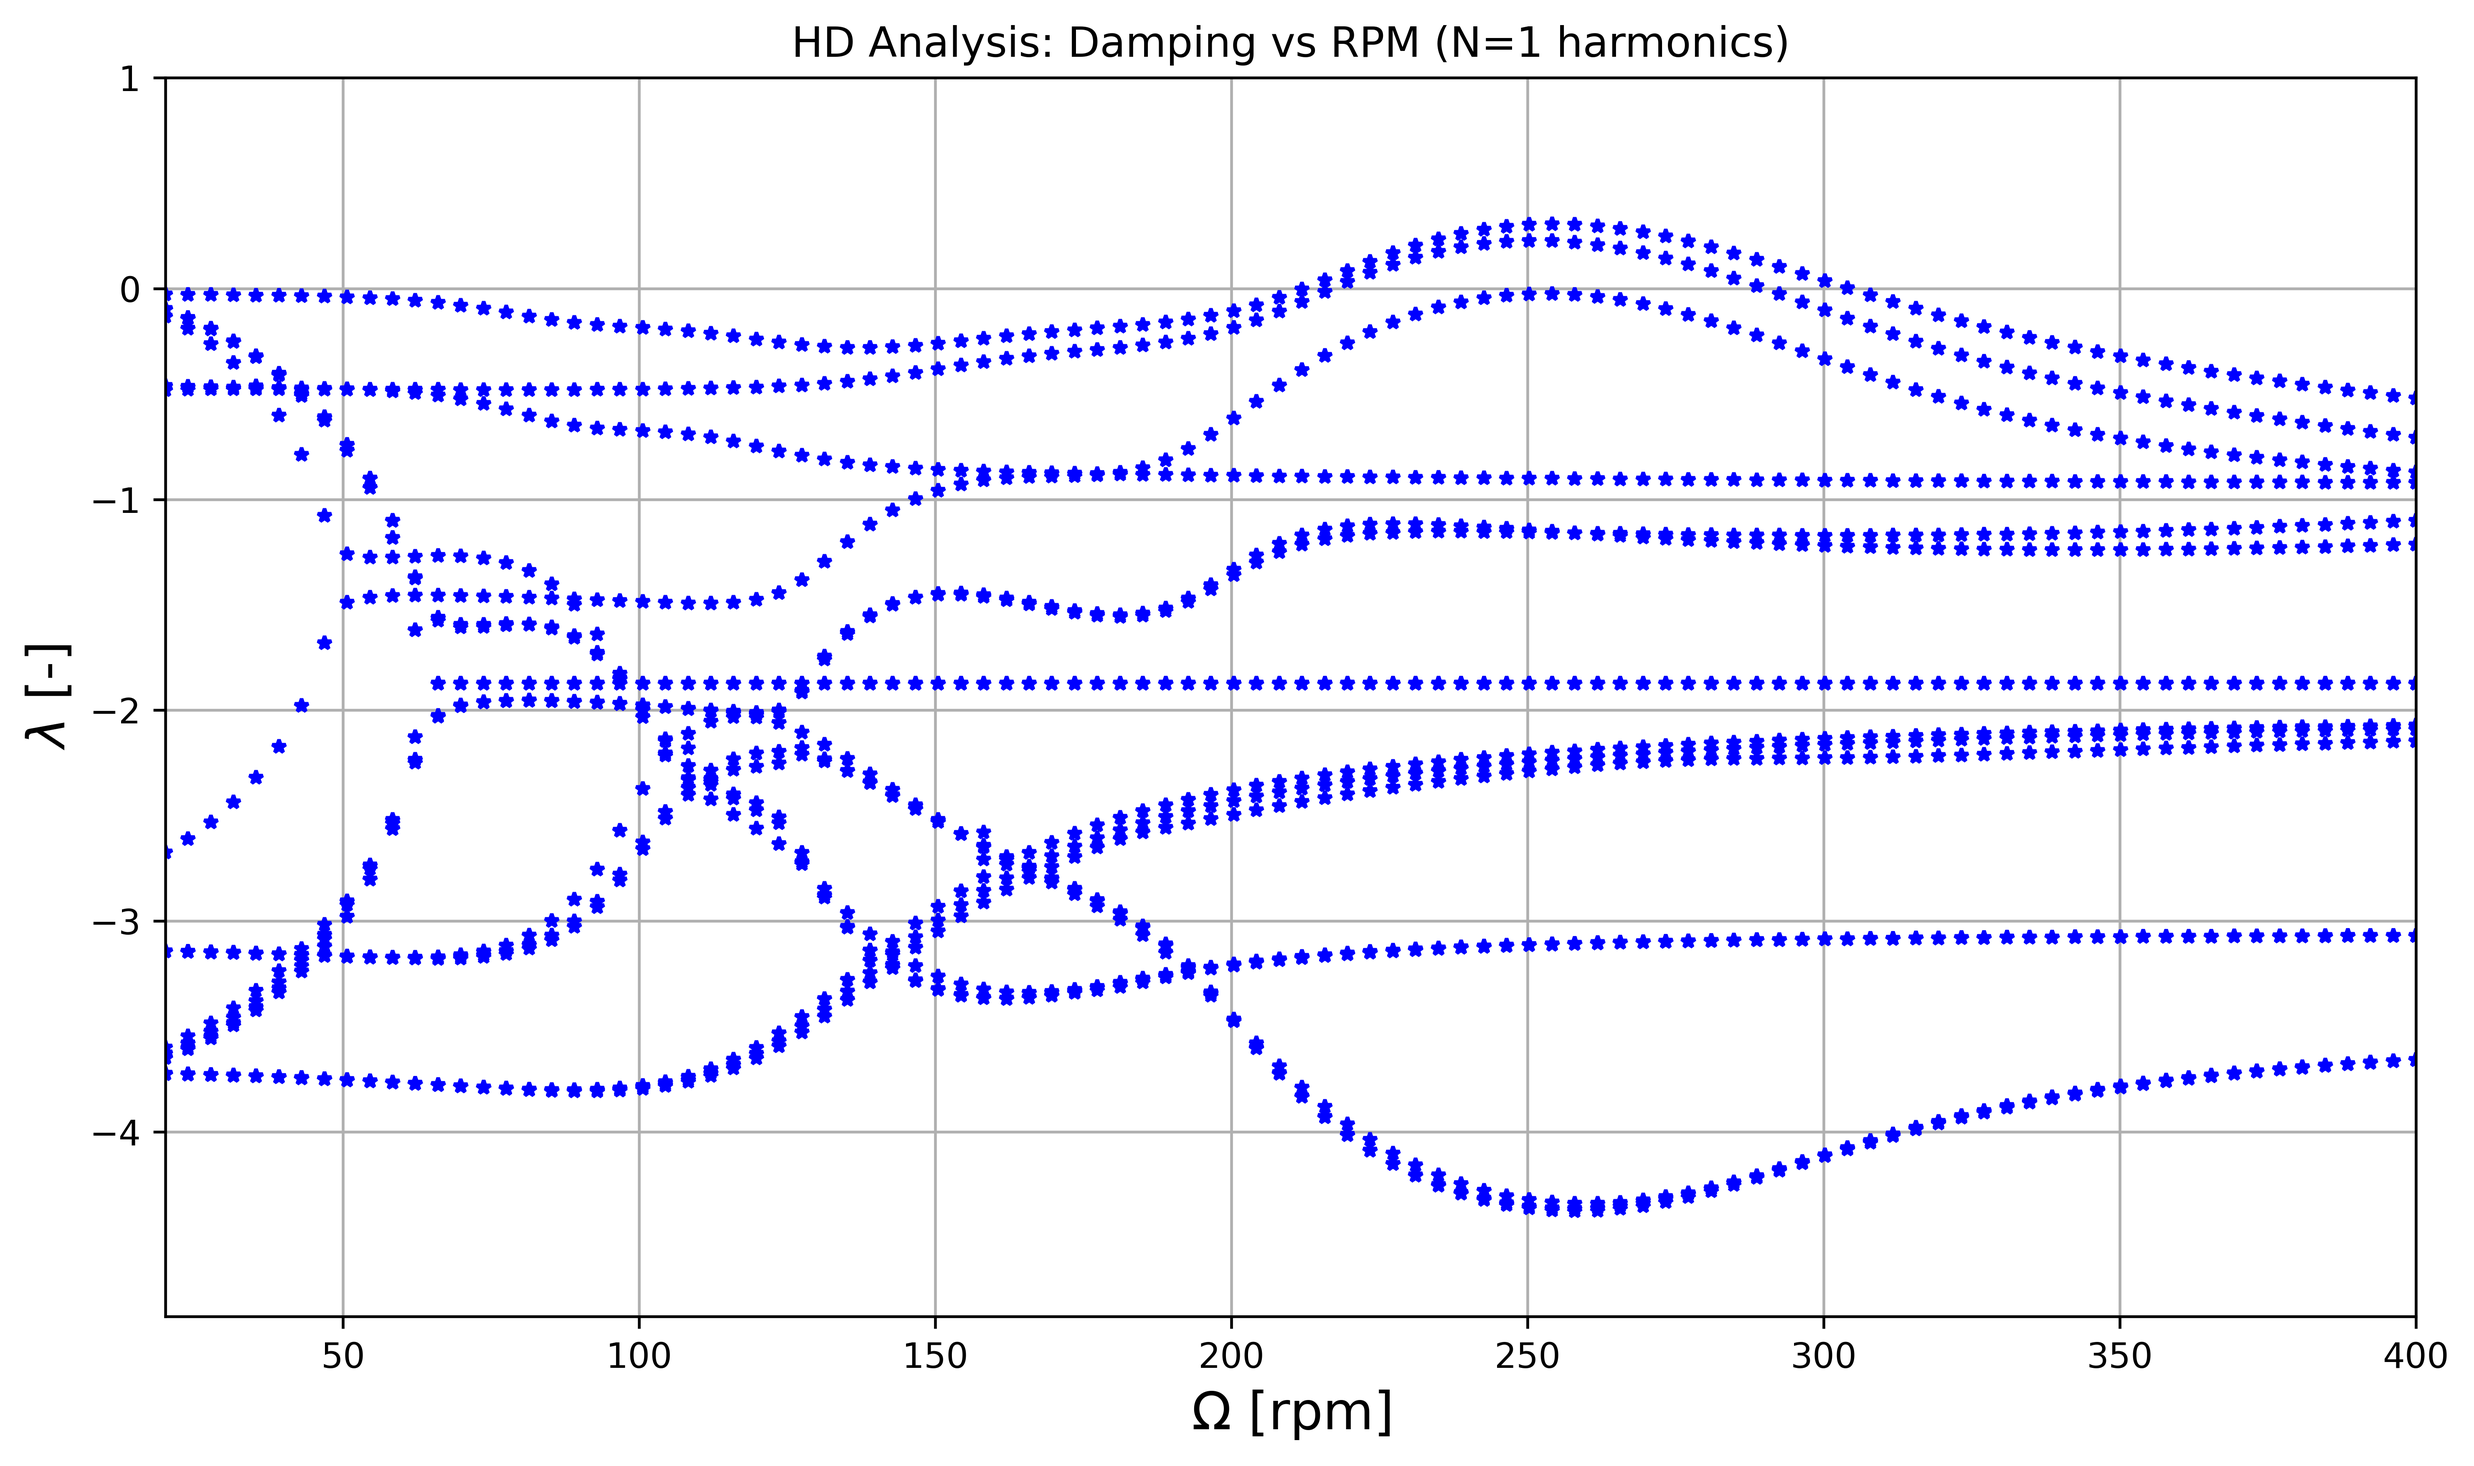
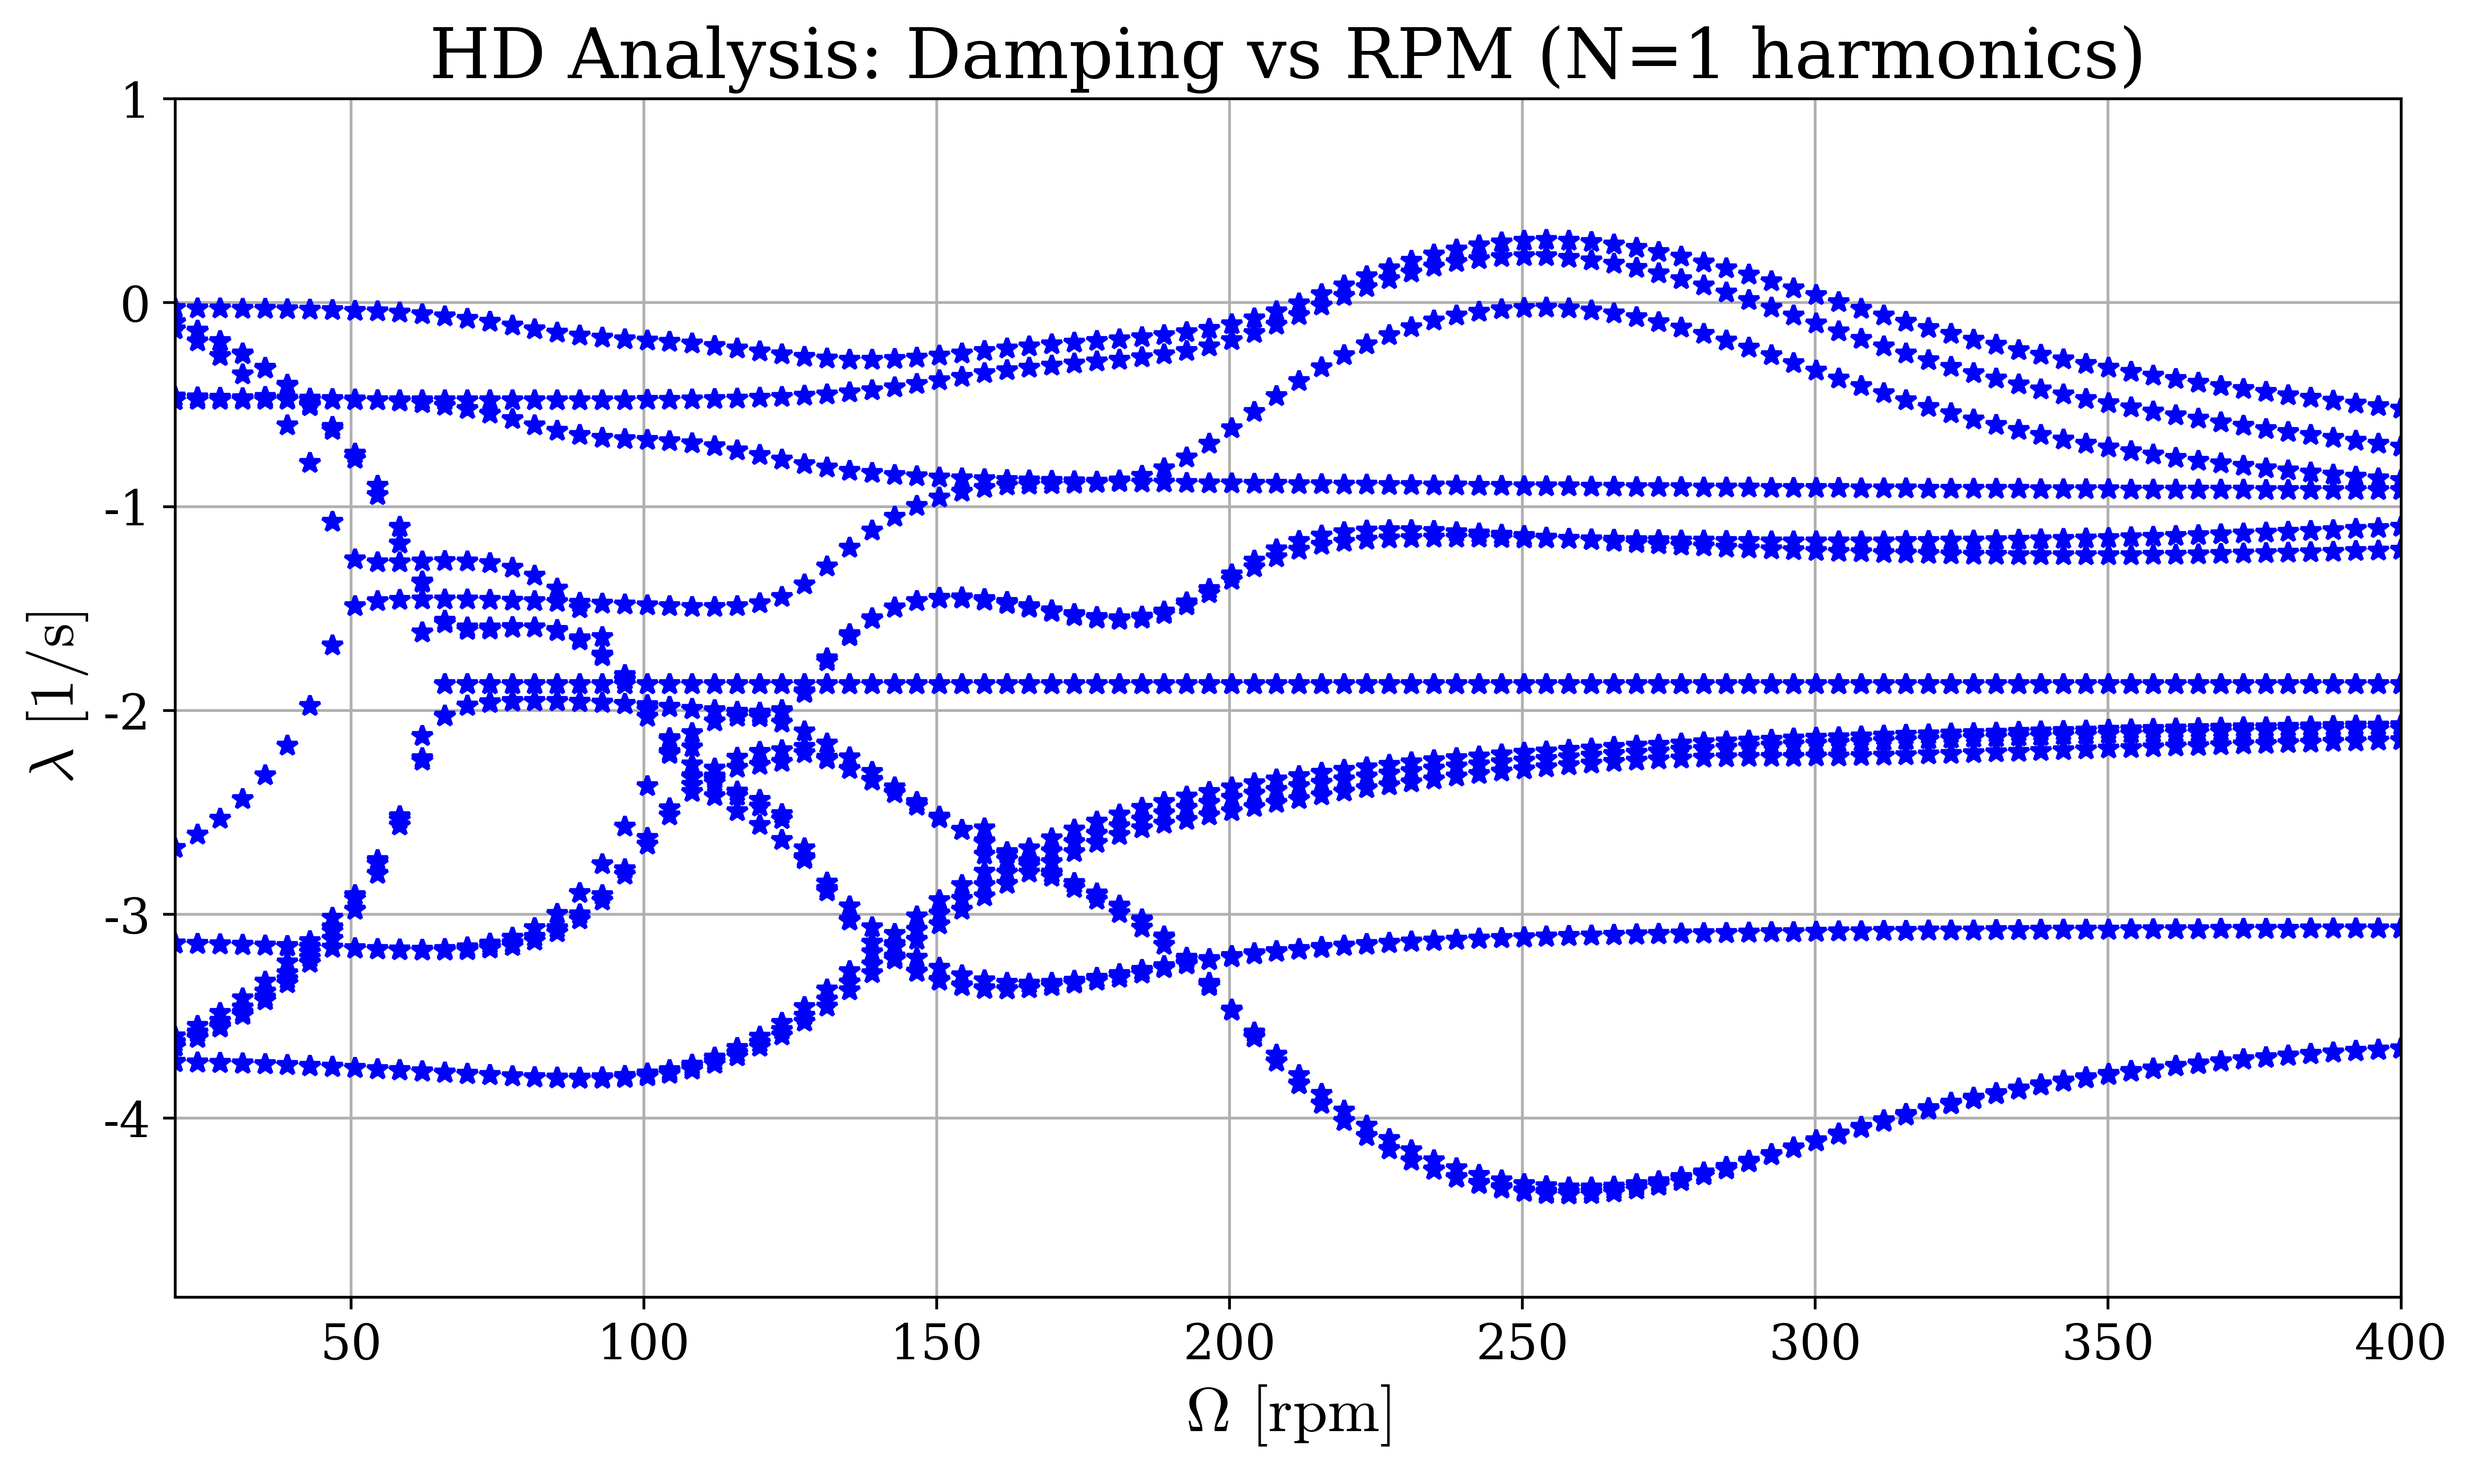
updated plots

diff --git a/src/utils/plotting.py b/src/utils/plotting.py
@@ -8,16 +8,33 @@ import matplotlib.pyplot as plt
 from dataclasses import dataclass
 from typing import Optional, List, Tuple
 
+# Configure matplotlib to use LaTeX-style fonts (Computer Modern)
+# and publication-quality settings
+plt.rcParams.update({
+    'text.usetex': False,  # Set True if LaTeX is installed for full LaTeX rendering
+    'font.family': 'serif',
+    'font.serif': ['Computer Modern Roman', 'CMU Serif', 'DejaVu Serif'],
+    'mathtext.fontset': 'cm',  # Computer Modern for math text
+    'axes.unicode_minus': False,
+    'axes.labelsize': 18,
+    'axes.titlesize': 20,
+    'xtick.labelsize': 14,
+    'ytick.labelsize': 14,
+    'legend.fontsize': 14,
+    'figure.titlesize': 20,
+})
+
 
 @dataclass
 class PlotProperties:
-    """Plot styling properties."""
-    
-    marker_size: int = 4
+    """Plot styling properties for publication-quality figures."""
+
+    marker_size: int = 6
     line_width: float = 2.0
-    fontsize_legend: int = 11
-    dash_width: float = 1.5
-    fontsize_label: int = 15
+    fontsize_legend: int = 14
+    dash_width: float = 2.0
+    fontsize_label: int = 18
+    fontsize_tick: int = 14
 
 
 @dataclass
@@ -125,8 +142,8 @@ class MyPlot:
                    color='blue', marker='*', markersize=plot_property.marker_size,
                    linestyle='None')
 
-        ax.set_xlabel(r'$\Omega$ [rpm]', fontsize=plot_property.fontsize_label)
-        ax.set_ylabel(r'$\lambda$ [-]', fontsize=plot_property.fontsize_label)
+        ax.set_xlabel(r'$\Omega$ $\mathrm{[rpm]}$', fontsize=plot_property.fontsize_label)
+        ax.set_ylabel(r'$\lambda$ $\mathrm{[1/s]}$', fontsize=plot_property.fontsize_label)
 
         if xlimits:
             ax.set_xlim(xlimits)
@@ -209,8 +226,8 @@ class MyPlot:
                            markersize=plot_property.marker_size,
                            linewidth=plot_property.line_width)
 
-        ax.set_xlabel(r'$\Omega$ [rpm]', fontsize=plot_property.fontsize_label)
-        ax.set_ylabel(r'$\lambda$ [-]', fontsize=plot_property.fontsize_label)
+        ax.set_xlabel(r'$\Omega$ $\mathrm{[rpm]}$', fontsize=plot_property.fontsize_label)
+        ax.set_ylabel(r'$\lambda$ $\mathrm{[1/s]}$', fontsize=plot_property.fontsize_label)
 
         if modes is not None:
             ax.legend(fontsize=plot_property.fontsize_legend, loc='center left',
@@ -258,8 +275,8 @@ class MyPlot:
                    color='blue', marker='*', markersize=plot_property.marker_size,
                    linestyle='None')
 
-        ax.set_xlabel(r'$\Omega$ [rpm]', fontsize=plot_property.fontsize_label)
-        ax.set_ylabel(r'$\omega$ [rad/s]', fontsize=plot_property.fontsize_label)
+        ax.set_xlabel(r'$\Omega$ $\mathrm{[rpm]}$', fontsize=plot_property.fontsize_label)
+        ax.set_ylabel(r'$\omega$ $\mathrm{[rad/s]}$', fontsize=plot_property.fontsize_label)
 
         if xlimits:
             ax.set_xlim(xlimits)
@@ -342,8 +359,8 @@ class MyPlot:
                            markersize=plot_property.marker_size,
                            linewidth=plot_property.line_width)
 
-        ax.set_xlabel(r'$\Omega$ [rpm]', fontsize=plot_property.fontsize_label)
-        ax.set_ylabel(r'$\omega$ [rad/s]', fontsize=plot_property.fontsize_label)
+        ax.set_xlabel(r'$\Omega$ $\mathrm{[rpm]}$', fontsize=plot_property.fontsize_label)
+        ax.set_ylabel(r'$\omega$ $\mathrm{[rad/s]}$', fontsize=plot_property.fontsize_label)
 
         if modes is not None:
             ax.legend(fontsize=plot_property.fontsize_legend, loc='center left',
@@ -383,8 +400,8 @@ class MyPlot:
         # TODO: Implement plotting logic from MATLAB version
         # This is a placeholder
 
-        ax.set_xlabel('Rotor Speed (RPM)', fontsize=15)
-        ax.set_ylabel('Modal Participation', fontsize=15)
+        ax.set_xlabel(r'$\Omega$ $\mathrm{[rpm]}$', fontsize=plot_property.fontsize_label)
+        ax.set_ylabel(r'Modal Participation $\mathrm{[-]}$', fontsize=plot_property.fontsize_label)
         ax.grid(True)
 
         if xlimits:
@@ -464,14 +481,14 @@ class MyPlot:
         # Filled contour plot
         cf = ax.contourf(OMEGA_grid, PARAM_grid, damping, levels=levels, cmap=cmap)
         cbar = fig.colorbar(cf, ax=ax)
-        cbar.set_label(r'Damping $\lambda$ $\mathrm{[1/s]}$', fontsize=plot_property.fontsize_label)
+        cbar.set_label(r'$\lambda$ $\mathrm{[1/s]}$ of least damped mode', fontsize=plot_property.fontsize_label)
 
         # Stability boundary (damping = 0) for main analysis
         if show_stability_boundary:
             cs = ax.contour(OMEGA_grid, PARAM_grid, damping, levels=[0],
                            colors='black', linewidths=2, linestyles='--')
             # Add to legend manually
-            boundary_label = f"{parametric_analysis.solver_type} boundary"
+            boundary_label = f"{parametric_analysis.solver_type} stability boundary"
             ax.plot([], [], 'k--', linewidth=2, label=boundary_label)
 
         # Overlay reference analysis stability boundary if provided
@@ -494,7 +511,7 @@ class MyPlot:
 
         # Labels
         if xlabel is None:
-            xlabel = r'$\Omega$ $\mathrm{[RPM]}$'
+            xlabel = r'$\Omega$ $\mathrm{[rpm]}$'
         ax.set_xlabel(xlabel, fontsize=plot_property.fontsize_label)
 
         if ylabel is None:
@@ -563,7 +580,7 @@ class MyPlot:
 
         # Labels
         if xlabel is None:
-            xlabel = r'$\Omega$ $\mathrm{[RPM]}$'
+            xlabel = r'$\Omega$ $\mathrm{[rpm]}$'
         ax.set_xlabel(xlabel, fontsize=plot_property.fontsize_label)
 
         if ylabel is None:
@@ -631,7 +648,7 @@ class MyPlot:
         ax.axhline(y=0, color='k', linestyle='--', linewidth=plot_property.dash_width,
                   label='Stability boundary')
 
-        ax.set_xlabel(r'$\Omega$ $\mathrm{[RPM]}$', fontsize=plot_property.fontsize_label)
+        ax.set_xlabel(r'$\Omega$ $\mathrm{[rpm]}$', fontsize=plot_property.fontsize_label)
         ax.set_ylabel(r'Damping $\lambda$ $\mathrm{[1/s]}$', fontsize=plot_property.fontsize_label)
 
         if title is None:
@@ -689,7 +706,7 @@ class MyPlot:
             ax.contourf(OMEGA_grid, PARAM_grid, damping, levels=[damping.min(), 0],
                        colors=['green'], alpha=0.3)
 
-        ax.set_xlabel(r'$\Omega$ $\mathrm{[RPM]}$', fontsize=plot_property.fontsize_label)
+        ax.set_xlabel(r'$\Omega$ $\mathrm{[rpm]}$', fontsize=plot_property.fontsize_label)
         ax.set_ylabel(MyPlot._format_parameter_label(parametric_analysis.parameter_name),
                      fontsize=plot_property.fontsize_label)
 
@@ -712,7 +729,7 @@ class MyPlot:
             Formatted label with units if known
         """
         label_map = {
-            "nominal_damping_Cd": r"Damper Coefficient $C_d$ $\mathrm{[Nms/rad]}$",
+            "nominal_damping_Cd": r"Nominal Damping $C_d$ $\mathrm{[Nms/rad]}$",
             "nominal_stiffness_Kd": r"Damper Stiffness $K_d$ $\mathrm{[Nm/rad]}$",
             "hub_damping_Cx": r"Hub Damping $C_x$ $\mathrm{[Ns/m]}$",
             "hub_damping_Cy": r"Hub Damping $C_y$ $\mathrm{[Ns/m]}$",

diff --git a/main_parametric_analysis_test.py b/main_parametric_analysis_test.py
@@ -58,7 +58,7 @@ def main():
 
     # Define sweep parameters
     omega_range_RPM = np.linspace(50, 400, 40)  # 40 points from 50 to 400 RPM
-    damping_range = np.linspace(500, 8000, 40)  # 25 points from 500 to 8000 Nms/rad
+    damping_range = np.linspace(0,4067, 40)  # 25 points from 500 to 8000 Nms/rad
 
     # Run the sweep
     print(f"\nRunning parametric sweep...")
@@ -174,8 +174,8 @@ def main():
         problem.damper_activation_vector = np.array([ratio, 1.0, 1.0, 1.0])
 
     # Sweep parameters
-    omega_sweep = np.linspace(100, 350, 30)
-    damper_ratios = np.linspace(0.0, 1.0, 30)
+    omega_sweep = np.linspace(100, 350, 40)
+    damper_ratios = np.linspace(0.0, 1.0, 40)  # C1 varies from 0 to Cd
 
     # -------------------------------------------------------------------------
     # Run HD analysis
@@ -220,7 +220,8 @@ def main():
         reference_label="LTP stability boundary",
         reference_color="blue",
         reference_linestyle="-",
-        title="Stability Map - First Damper Effectiveness Variation\n(HD contours with LTP boundary comparison)"
+        title="",
+        ylabel=r"$C_1/C_d$ $\mathrm{[-]}$"
     )
     fig5.tight_layout()
 

diff --git a/main_ltp_continuation_test.py b/main_ltp_continuation_test.py
@@ -85,6 +85,7 @@ def main():
     # Override to ensure LTP solver with continuation is used
     rotor.problem.required_solver = "LTP"
     rotor.problem.continuation = "YES"
+    rotor.problem.damper_activation = "ODI"
 
     print(f"  [OK] Rotor system built successfully")
     print(f"    - Number of blades: {rotor.problem.number_blades}")
